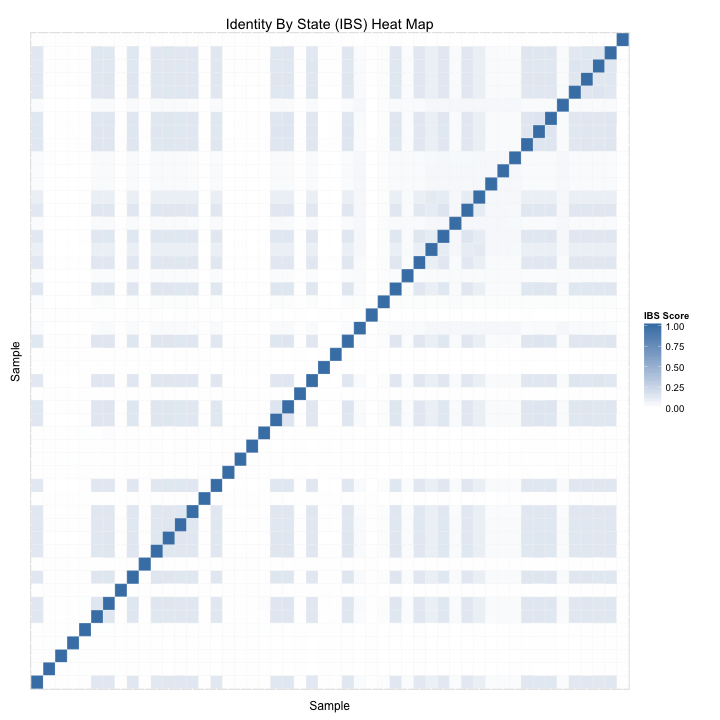
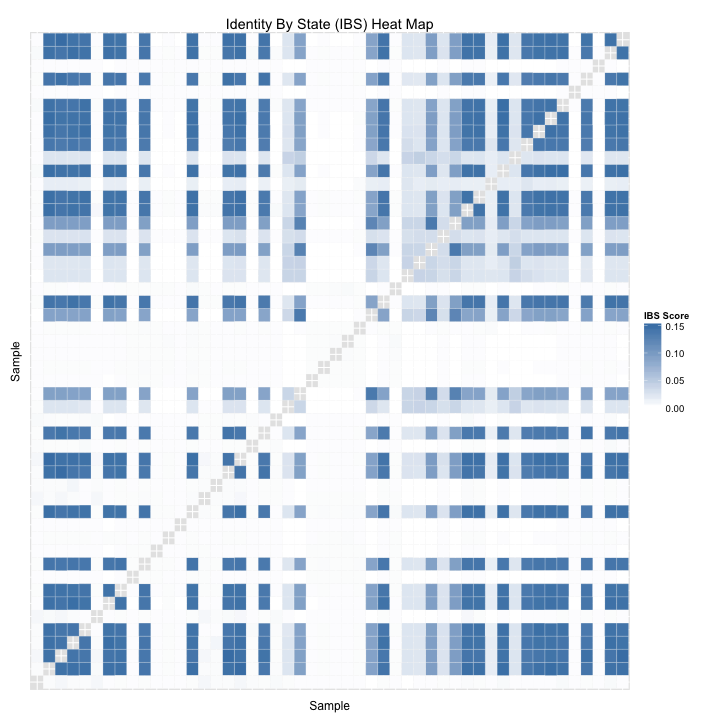
Changed the R code to adhere to the Google R style guide.

diff --git a/results/ibs/1000Genomes-BRCA1/canonical/plot-ibs-data.md b/results/ibs/1000Genomes-BRCA1/canonical/plot-ibs-data.md
@@ -2,36 +2,44 @@
 
 
 
-The input IBS matrix is an $N^2\times 3$ matrix, where $N$ is the size of the
-population and each row represents the IBS score for a pair of individuals.
+The input IBS matrix is an N^2 * 3 matrix, where N is the size of the population
+and each row represents the IBS score for a pair of individuals.
 
 
 ```r
 library(reshape2)
-ibs_pairs <- read.table(file=ibs_filename, stringsAsFactors=FALSE)
-colnames(ibs_pairs) <- c("sample1", "sample2", "ibs_score")
+ibsPairs <- read.table(file=ibsFilename, stringsAsFactors=FALSE)
+colnames(ibsPairs) <- c("sample1", "sample2", "ibsScore")
 ```
 
 Make the IBS matrix symmetric.
 
 
 ```r
-ibs_pairs_mirrored <- data.frame(sample1=ibs_pairs$sample2,
-                                 sample2=ibs_pairs$sample1,
-                                 ibs_score=ibs_pairs$ibs_score)
-ibs_pairs <- rbind(ibs_pairs, ibs_pairs_mirrored)
-write.table(ibs_pairs, file=symmetric_ibs_filename)
+ibsPairsMirrored <- data.frame(sample1=ibsPairs$sample2,
+                               sample2=ibsPairs$sample1,
+                               ibsScore=ibsPairs$ibsScore)
+ibsPairs <- rbind(ibsPairs, ibsPairsMirrored)
+write.table(ibsPairs, file=symmetricIBSFilename)
 ```
 
 Extract the IBS matrix for a random sample of the individuals.
 
 
 ```r
-individuals <- unique(ibs_pairs$sample1)
-sample_size <- 50
-sample <- sample(individuals, sample_size)
-ibs_pairs <- subset(ibs_pairs, ibs_pairs$sample1 %in% sample)
-ibs_pairs <- subset(ibs_pairs, ibs_pairs$sample2 %in% sample)
+individuals <- unique(ibsPairs$sample1)
+sampleSize <- 50
+sample <- sample(individuals, sampleSize)
+ibsPairs <- subset(ibsPairs, ibsPairs$sample1 %in% sample)
+ibsPairs <- subset(ibsPairs, ibsPairs$sample2 %in% sample)
+```
+
+Exclude the IBS values for a genome and itself, because those values are always
+1.0 and skew the heat map.
+
+
+```r
+ibsPairs <- subset(ibsPairs, ibsPairs$sample1 != ibsPairs$sample2)
 ```
 
 Draw a heat map based on the IBS scores.
@@ -39,9 +47,9 @@ Draw a heat map based on the IBS scores.
 
 ```r
 require(ggplot2)
-p <- ggplot(data=ibs_pairs, aes(x=sample1, y=sample2)) +
+p <- ggplot(data=ibsPairs, aes(x=sample1, y=sample2)) +
      theme(axis.ticks=element_blank(), axis.text=element_blank()) +
-     geom_tile(aes(fill=ibs_score), colour="white") +
+     geom_tile(aes(fill=ibsScore), colour="white") +
      scale_fill_gradient(low="white", high="steelblue", na.value="black",
                          guide=guide_colourbar(title="IBS Score")) +
      labs(list(title="Identity By State (IBS) Heat Map", x="Sample", y="Sample"))

diff --git a/results/ibs/1000Genomes-BRCA1/minor/plot-ibs-data.md b/results/ibs/1000Genomes-BRCA1/minor/plot-ibs-data.md
@@ -2,36 +2,44 @@
 
 
 
-The input IBS matrix is an $N^2\times 3$ matrix, where $N$ is the size of the
-population and each row represents the IBS score for a pair of individuals.
+The input IBS matrix is an N^2 * 3 matrix, where N is the size of the population
+and each row represents the IBS score for a pair of individuals.
 
 
 ```r
 library(reshape2)
-ibs_pairs <- read.table(file=ibs_filename, stringsAsFactors=FALSE)
-colnames(ibs_pairs) <- c("sample1", "sample2", "ibs_score")
+ibsPairs <- read.table(file=ibsFilename, stringsAsFactors=FALSE)
+colnames(ibsPairs) <- c("sample1", "sample2", "ibsScore")
 ```
 
 Make the IBS matrix symmetric.
 
 
 ```r
-ibs_pairs_mirrored <- data.frame(sample1=ibs_pairs$sample2,
-                                 sample2=ibs_pairs$sample1,
-                                 ibs_score=ibs_pairs$ibs_score)
-ibs_pairs <- rbind(ibs_pairs, ibs_pairs_mirrored)
-write.table(ibs_pairs, file=symmetric_ibs_filename)
+ibsPairsMirrored <- data.frame(sample1=ibsPairs$sample2,
+                               sample2=ibsPairs$sample1,
+                               ibsScore=ibsPairs$ibsScore)
+ibsPairs <- rbind(ibsPairs, ibsPairsMirrored)
+write.table(ibsPairs, file=symmetricIBSFilename)
 ```
 
 Extract the IBS matrix for a random sample of the individuals.
 
 
 ```r
-individuals <- unique(ibs_pairs$sample1)
-sample_size <- 50
-sample <- sample(individuals, sample_size)
-ibs_pairs <- subset(ibs_pairs, ibs_pairs$sample1 %in% sample)
-ibs_pairs <- subset(ibs_pairs, ibs_pairs$sample2 %in% sample)
+individuals <- unique(ibsPairs$sample1)
+sampleSize <- 50
+sample <- sample(individuals, sampleSize)
+ibsPairs <- subset(ibsPairs, ibsPairs$sample1 %in% sample)
+ibsPairs <- subset(ibsPairs, ibsPairs$sample2 %in% sample)
+```
+
+Exclude the IBS values for a genome and itself, because those values are always
+1.0 and skew the heat map.
+
+
+```r
+ibsPairs <- subset(ibsPairs, ibsPairs$sample1 != ibsPairs$sample2)
 ```
 
 Draw a heat map based on the IBS scores.
@@ -39,9 +47,9 @@ Draw a heat map based on the IBS scores.
 
 ```r
 require(ggplot2)
-p <- ggplot(data=ibs_pairs, aes(x=sample1, y=sample2)) +
+p <- ggplot(data=ibsPairs, aes(x=sample1, y=sample2)) +
      theme(axis.ticks=element_blank(), axis.text=element_blank()) +
-     geom_tile(aes(fill=ibs_score), colour="white") +
+     geom_tile(aes(fill=ibsScore), colour="white") +
      scale_fill_gradient(low="white", high="steelblue", na.value="black",
                          guide=guide_colourbar(title="IBS Score")) +
      labs(list(title="Identity By State (IBS) Heat Map", x="Sample", y="Sample"))
